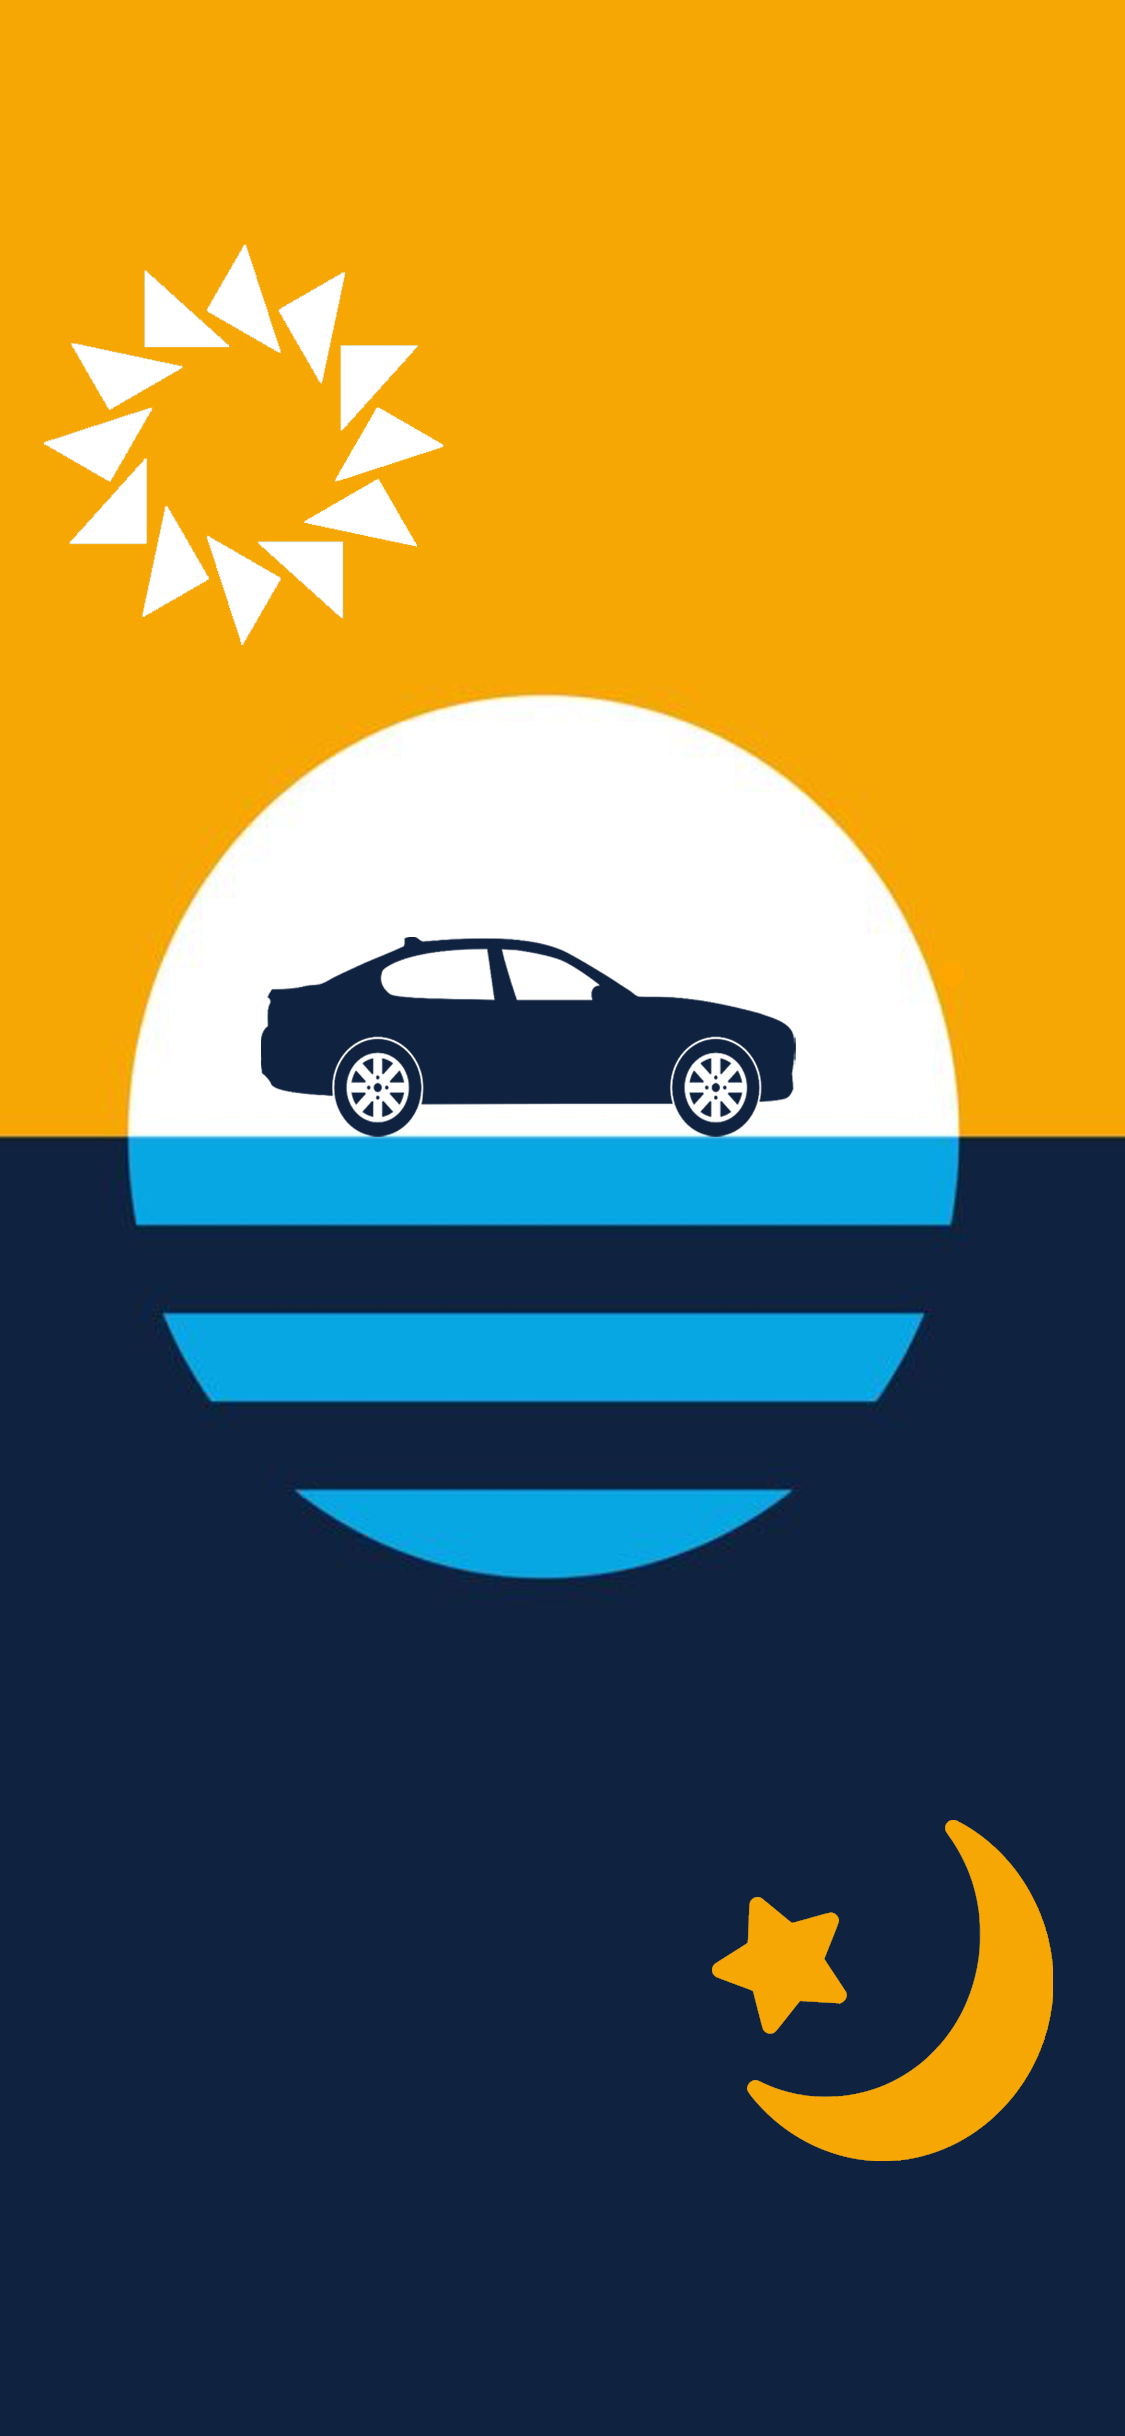
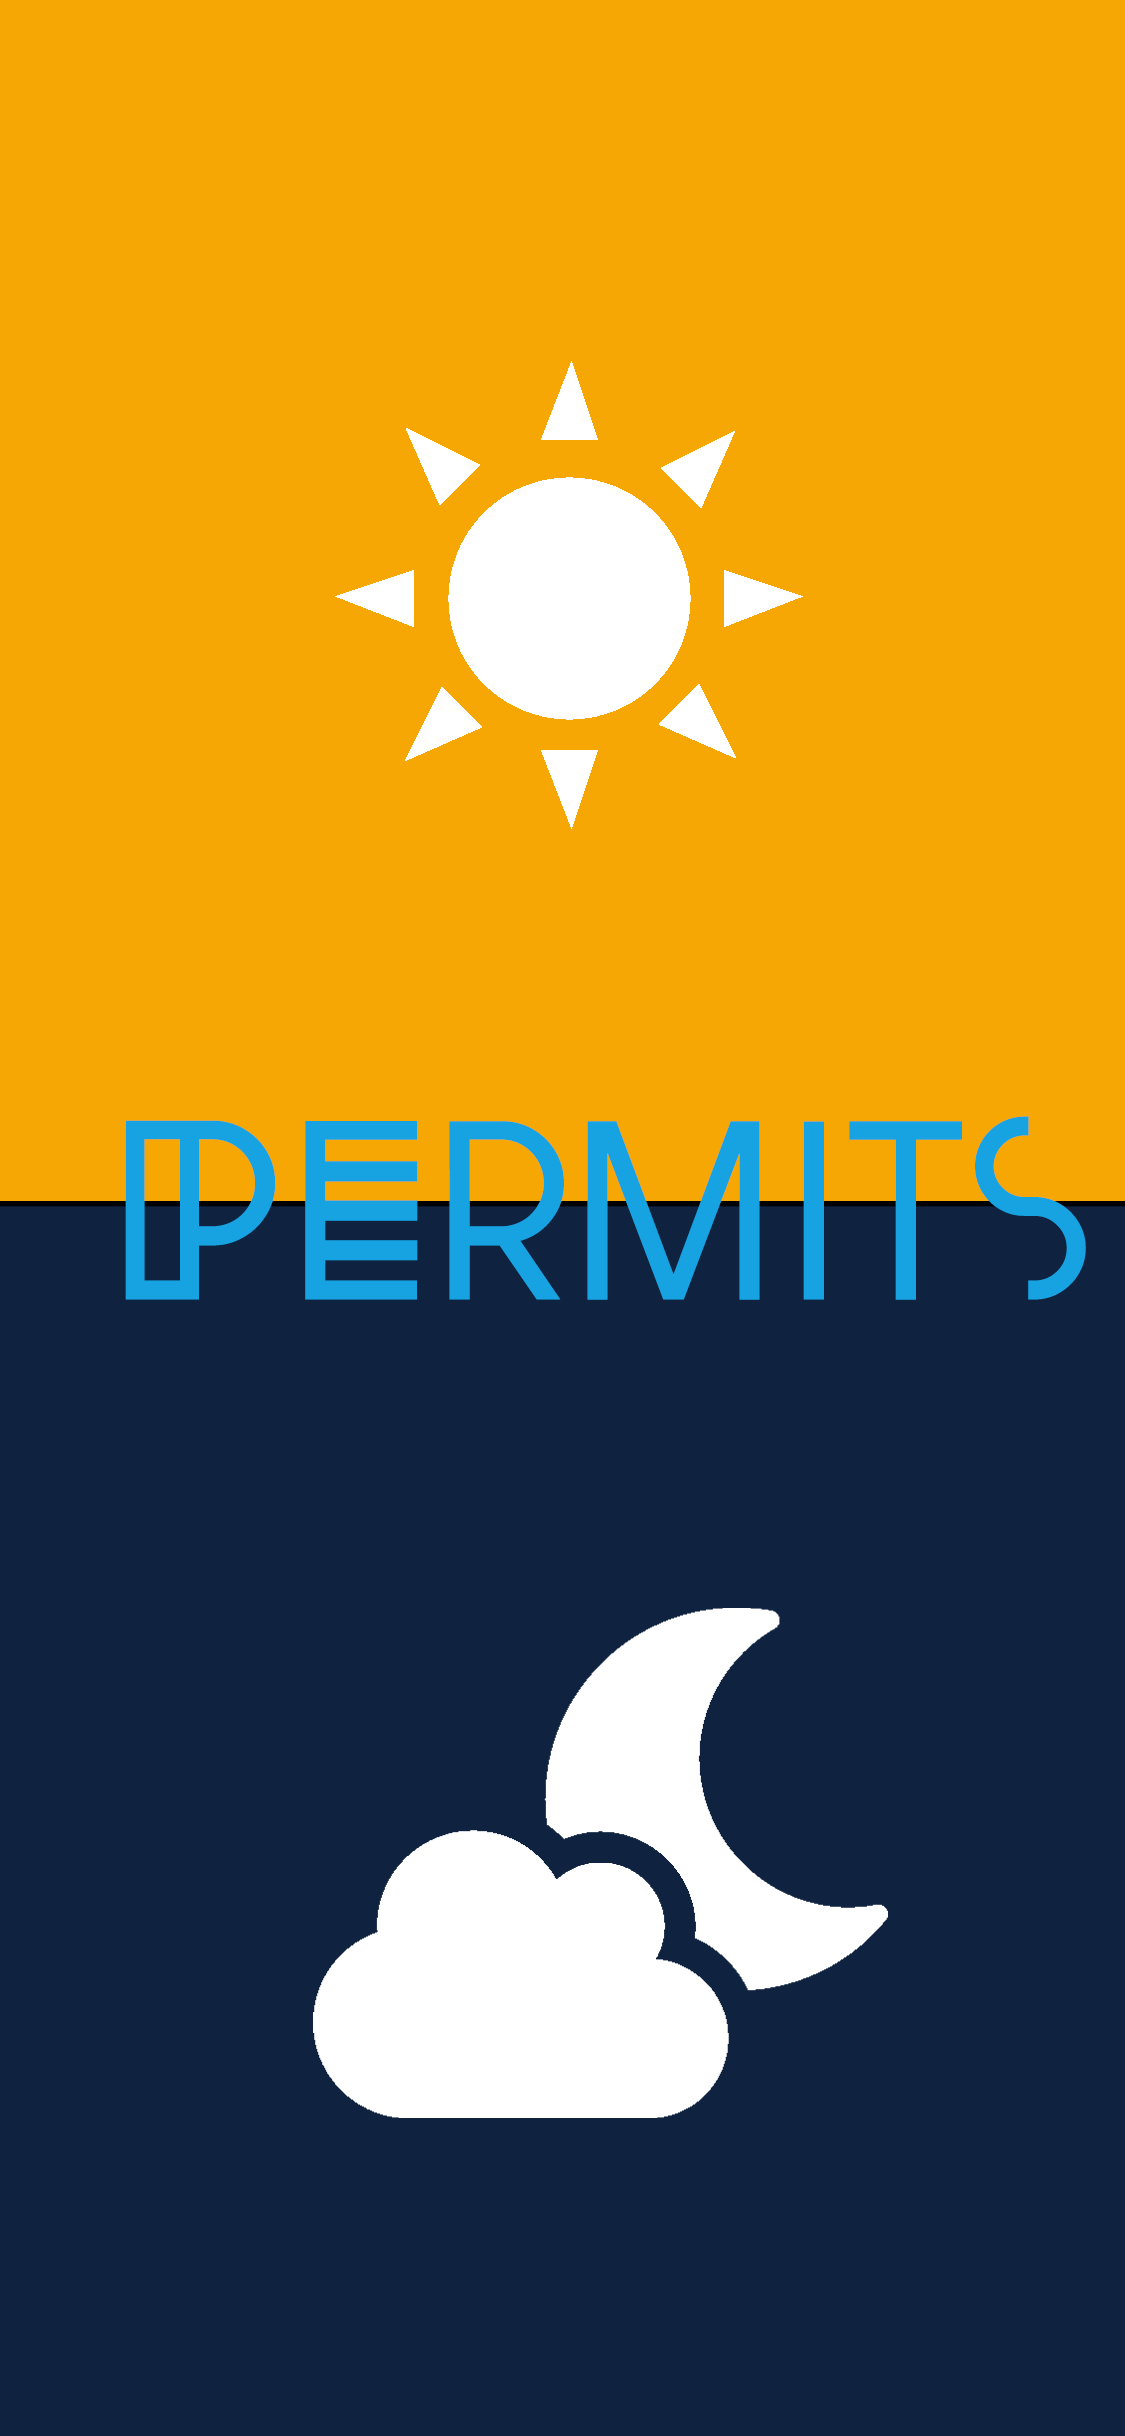
temporary permit landing page

Changed region(s): [[0.0, 0.0936, 1.0, 0.9048]]

diff --git a/src/screens/permitscreen/PermitScreen.js b/src/screens/permitscreen/PermitScreen.js
@@ -7,7 +7,7 @@ import { buttons } from './permit-styles';
 export function PermitScreen({ navigation }) {
     return (
         <View style={styles.container}>
-            <ImageBackground style={styles.background} source={require('../../../assets/background-permit.png')}>
+            <ImageBackground style={styles.background} source={require('../../../assets/background-day.png')}>
                 <View style={styles.buttonContainer}>
                     {/* <Text>This the permit home screen</Text> */}
 
@@ -18,12 +18,15 @@ export function PermitScreen({ navigation }) {
                         <Button
                         color='#FFF'
                         style={buttons.primaryText}
-                        title="Day Permits"
+                        title="CLICK HERE"
                         />
                         
                     </TouchableOpacity>
-
-                    <TouchableOpacity 
+                </View>
+            </ImageBackground>
+            <ImageBackground style={styles.backgroundNight} source={require("../../../assets/background-night.png")}>
+                <View>
+                <TouchableOpacity 
                         style={buttons.night}
                         title="Night Permits"
                         onPress={() => navigation.navigate("Night Permits")}
@@ -31,7 +34,7 @@ export function PermitScreen({ navigation }) {
                         <Button
                         color='#18224B'
                         style={buttons.primaryText}
-                        title="Night Permits"
+                        title="CLICK HERE"
                         />
                     </TouchableOpacity>
                 </View>
@@ -49,6 +52,7 @@ const styles = StyleSheet.create({
         backgroundColor: '#fff',
         alignItems: 'center',
         justifyContent: 'center',
+        flexDirection: 'column'
     },
     text: {
         textAlign: 'center',
@@ -72,7 +76,12 @@ const styles = StyleSheet.create({
     },
     background: {
         width: '100%',
-        height: '100%',
+        height: '80%',
+        top: '18%'
+    },
+    backgroundNight: {
+        width: '100%',
+        height: '80%',
         top: '0%'
     },
     buttonContainer: {

diff --git a/src/screens/permitscreen/permit-styles.js b/src/screens/permitscreen/permit-styles.js
@@ -36,20 +36,20 @@ const buttons = StyleSheet.create({
     night: {
         backgroundColor: '#FFF',
         color: '#18224B',
-        width: "50%",
+        width: "30%",
         borderRadius: 25,
-        marginLeft: '0%',
-        marginRight: '10%',
-        marginBottom: '15%'
+        marginLeft: '5%',
+        marginRight: '0%',
+        marginTop: '7%'
     },
     day: {
         backgroundColor: '#18224B',
         color: '#18224B',
-        width: "50%",
+        width: "30%",
         borderRadius: 25,
-        marginLeft: '10%',
+        marginLeft: '20%',
         marginRight: '10%',
-        marginTop: '15%',
+        marginTop: '93%',
         left: '30%'
     }
 })

diff --git a/src/screens/permitscreen/NightPermitScreen.js b/src/screens/permitscreen/NightPermitScreen.js
@@ -47,7 +47,7 @@ export function NightPermitScreen({ navigation}) {
             title="Disabled Night Permits"
             onPress={() => navigation.navigate("Disabled Night Permit")}/>
             </TouchableOpacity>
-            <ImageBackground source={require('../../.././assets/skyline_orange.png')}
+            <ImageBackground source={require('../../.././assets/skyline_lightblue.png')}
             style={styles.background}></ImageBackground>
             {/* <TouchableOpacity style={styles.LogInButton} 
             onPress={() => Linking.openURL('https://duncan.imageenforcement.com/PermitSites/MilwaukeePermits')}
